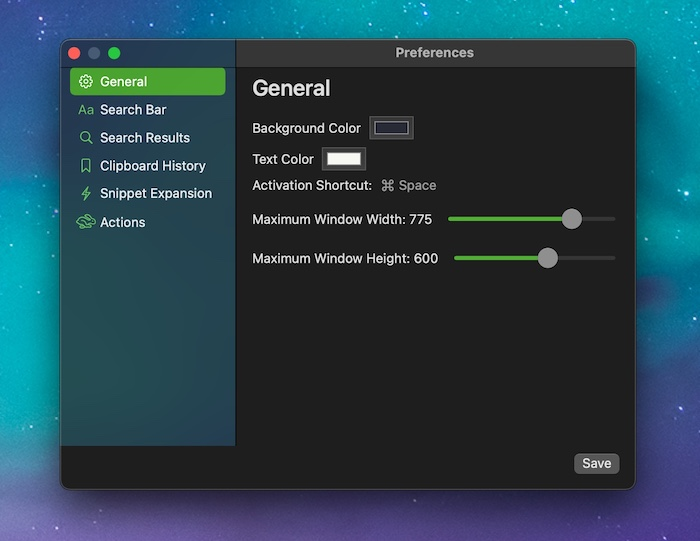
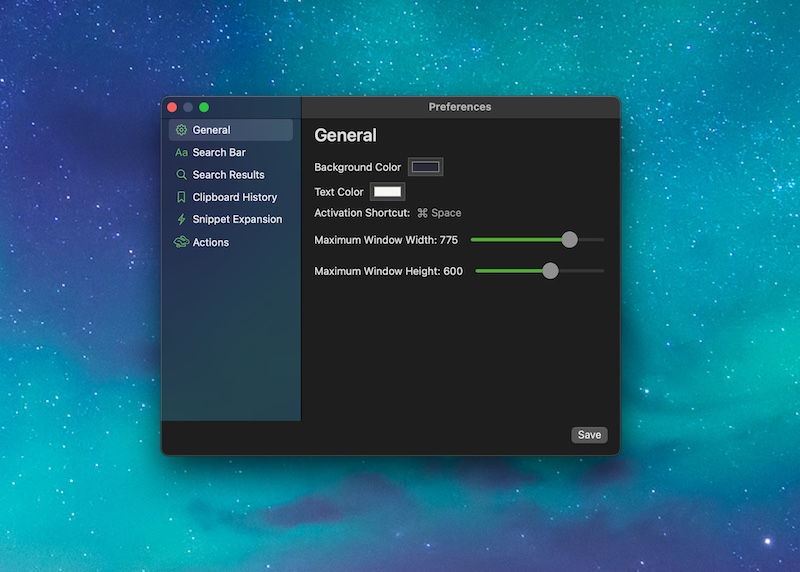
Fixed Screenshots

diff --git a/README.md b/README.md
@@ -51,8 +51,8 @@ Be warned though: This app is in an alpha stage! Bugs will occur!
 |Free|✅|✅|✅||
 
 ## Screenshots
-<img src="https://github.com/techrisdev/Snap/raw/main/screenshots/Search.jpg" width="700" height="620" />
-<img src="https://github.com/techrisdev/Snap/raw/main/screenshots/Preferences.jpg" width="700" height="620" />
+<img src="https://github.com/techrisdev/Snap/raw/main/screenshots/Search.jpg" width="800" height="572" />
+<img src="https://github.com/techrisdev/Snap/raw/main/screenshots/Preferences.jpg" width="800" height="572" />
 
 ## Building
 
